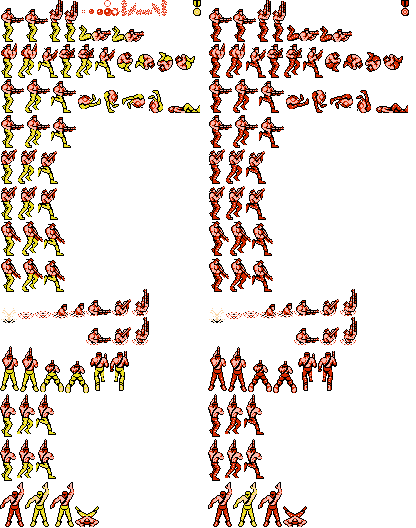
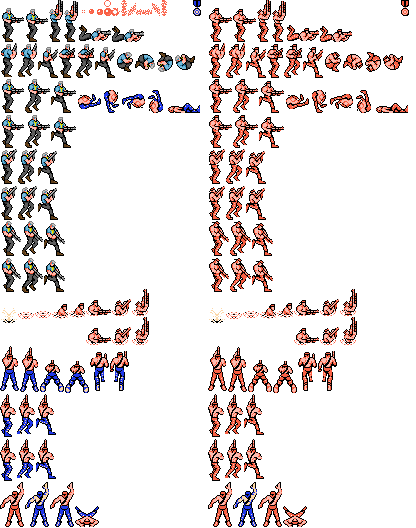
distintos sprites para cada item, nuevos sprites para personajes

diff --git a/src/juego.cpp b/src/juego.cpp
@@ -1130,6 +1130,9 @@ void juego::actualizar ()
 
 			if (vectorEnemigos[i]->derrotado()){
 				//pruebo suerte!
+				//POSTA: va de 2 a 10
+				//dropItem= rand() % 10 + 2;
+				//DEBUG: va de 1 a 4
 				dropItem= rand() % 4 + 1;
 				if(dropItem<=4){
 					//siiii! suelta un item!
@@ -1141,7 +1144,10 @@ void juego::actualizar ()
 					Item* nuevoItem;
 					nuevoItem = new Item(posXItem,posYItem,coordXItem,coordYItem,dropItem,nivel);
 					//nuevoItem = new Item(400,200,400,400,dropItem,nivel);
-					nuevoItem->obtenerTextura("//configuracion//items//arma//sprite", renderer);
+					if(dropItem==1) nuevoItem->obtenerTextura("//configuracion//items//vidaitem//sprite", renderer);
+					if(dropItem==2) nuevoItem->obtenerTextura("//configuracion//items//ametralladora//sprite", renderer);
+					if(dropItem==3) nuevoItem->obtenerTextura("//configuracion//items//escopeta//sprite", renderer);
+					if(dropItem==4) nuevoItem->obtenerTextura("//configuracion//items//bazooka//sprite", renderer);
 					vectorItems.push_back(nuevoItem);
 				}
 				vectorEnemigos.erase(vectorEnemigos.begin() + i);

diff --git a/src/Item.cpp b/src/Item.cpp
@@ -5,8 +5,8 @@ Item::Item(int x,int y, int coorX, int coorY, int arma, int nivel) {
 
 	Enemigo();
 
-	rectOrigen = {0,0,60,60};
-	rectDestino = {x,y,60,60};
+	rectOrigen = {0,0,40,40};
+	rectDestino = {x,y,40,40};
 
 	coordenadaX=coorX;
 	coordenadaY=coorY;
